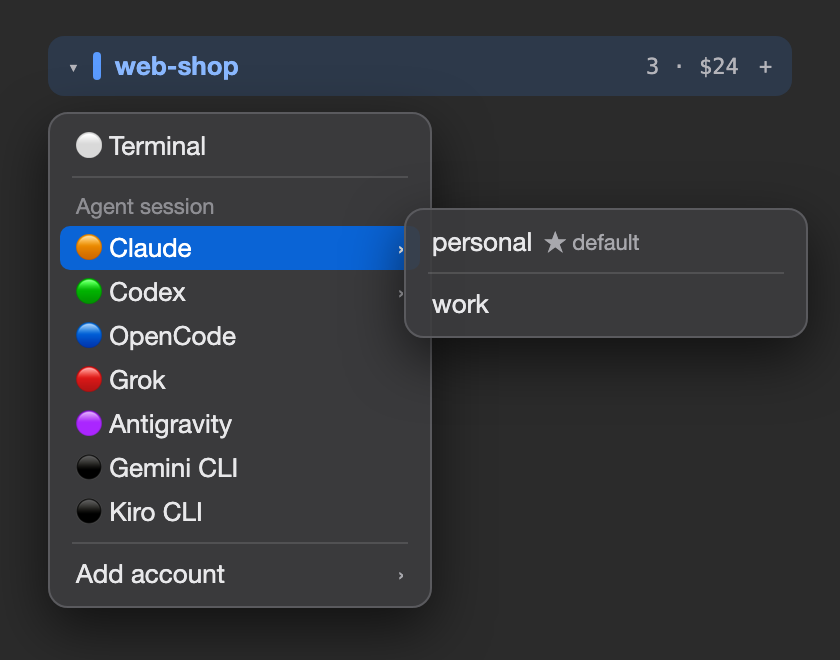
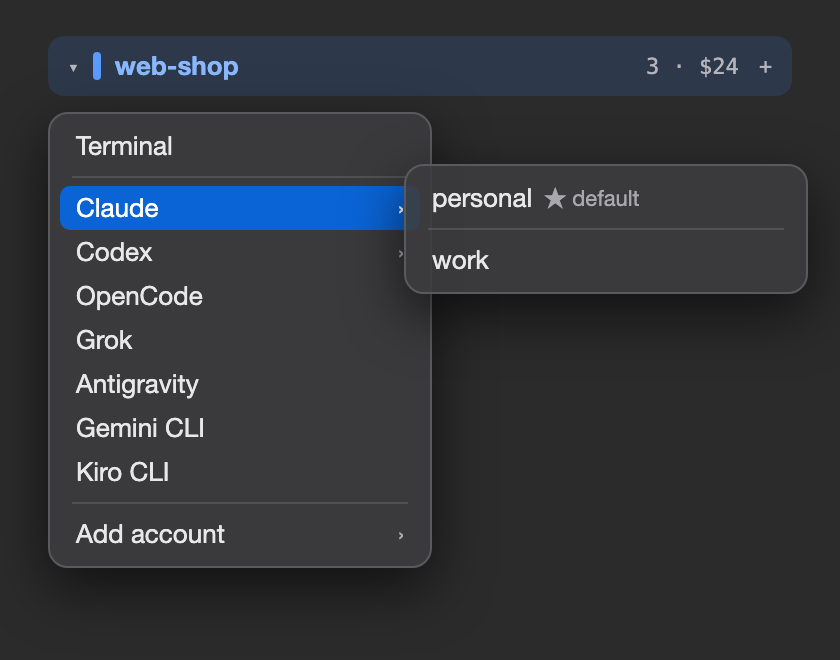
Shorter menus: no tool dots, no dead items, views in one submenu
Row menu: the name first, a PR item only when a PR exists, no item that
repeats a click. Header menu: plain tool names; fold-all stays beside the search.

Claude-Session: https://claude.ai/code/session_01HXnduJEMf4sVkPrvQkemg9

diff --git a/sidebars/agents.js b/sidebars/agents.js
@@ -665,7 +665,6 @@ const PLAIN = { agy: "agy" };
 const STARTS = [...LAUNCH, ...Object.keys(PLAIN)];
 // A system menu draws no icon beside a label and no text colour (both tried with cmux 0.65, 2026-11-15), so a
 // coloured emoji dot is the mark of a tool there.
-const DOT = { term: "\u26AA", claude: "\u{1F7E0}", codex: "\u{1F7E2}", opencode: "\u{1F535}", grok: "\u{1F534}", agy: "\u{1F7E3}" };
 // Other tools: "@tools: gemini=gemini=Gemini CLI;kiro=kiro-cli=Kiro CLI" (id=command=label), written by label-tabs.py
 // from its list and from ~/.config/cmux/agents-tools. This text reaches a shell, so every part is checked here again:
 // the command is one word (a-z, 0-9, "-"; no path, no argument) that the login shell finds by name.
@@ -1072,19 +1071,19 @@ function addAccount(wsId, tool) {
 const bandMenu = (entry) => {
   const items = entry().launch ?? [], ws = () => entry().wsId;
   const tools = [...new Set(items.map((x) => x.tool))];
-  // A tool that is not one of the five has its label in the item and a neutral dot.
-  const name = (t) => TOOLS[t] ?? items.find((x) => x.tool === t).name, dot = (t) => DOT[t] ?? "\u26AB";
+  // Plain names, no colour marks: a colour per tool is used nowhere else in the panel. A tool that is not one of
+  // the five has its label in the item.
+  const name = (t) => TOOLS[t] ?? items.find((x) => x.tool === t).name;
   const start = tools.map((t) => {
     const mine = items.filter((x) => x.tool === t);
-    if (mine.length < 2) return Button(dot(t) + "  " + name(t), () => launch(ws(), mine[0]));
+    if (mine.length < 2) return Button(name(t), () => launch(ws(), mine[0]));
     const first = mine.filter((x) => !x.acct), rest = mine.filter((x) => x.acct);
-    return Menu(dot(t) + "  " + name(t), [...first.map((x) => Button(x.label, () => launch(ws(), x))), ...(first.length && rest.length ? [Divider()] : []),
+    return Menu(name(t), [...first.map((x) => Button(x.label, () => launch(ws(), x))), ...(first.length && rest.length ? [Divider()] : []),
       ...rest.map((x) => Button(x.label, () => launch(ws(), x)))]);
   });
-  const adds = tools.filter((t) => LAUNCH.includes(t)).map((t) => Button(DOT[t] + "  " + TOOLS[t] + "…", () => addAccount(ws(), t)));
-  return [Button(DOT.term + "  Terminal", () => newTab(ws())), ...(start.length ? [Divider(), Text("Agent session"), ...start] : []),
-    ...(adds.length ? [Divider(), Menu("Add account", adds)] : []),
-    Divider(), Button("Collapse all groups", () => foldAll(true)), Button("Expand all groups", () => foldAll(false))];
+  const adds = tools.filter((t) => LAUNCH.includes(t)).map((t) => Button(TOOLS[t] + "…", () => addAccount(ws(), t)));
+  return [Button("Terminal", () => newTab(ws())), ...(start.length ? [Divider(), ...start] : []),
+    ...(adds.length ? [Divider(), Menu("Add account", adds)] : [])];
 };
 const selectWs = (entry) => () => cmux("workspace.select", { workspace_id: entry().wsId });
 // "+" opens a plain terminal tab in the workspace, the first item of the right-click menu. A Menu() as the mark was
@@ -1253,15 +1252,19 @@ function limitRow(entry) {
 function rowMenu(entry) {
   const cmd = commandsOf(entry().agent);
   const items = [
-    Button("Go to session", () => jump(entry())),
-    Button(() => (openInfo()[entry().rowId] ? "Hide details" : "Show details"), () => flip(openInfo, setOpenInfo, entry().rowId)),
+    // A plain click on the row goes to the session, so the menu has no item for it. The name comes first: it is
+    // what a reader passes to another session.
     Button(() => "Copy name" + (entry().sessName ? ": " + entry().sessName : ""), () => clipboard.write(entry().sessName || entry().tabTitle)),
     Button("Copy folder", () => clipboard.write(entry().folder)),
-    Button("Show in timeline", () => openViews("timeline", entry().sessName)),
-    Button("Show inside the sessions", () => openViews("inside")),
-    Button("Show the setup", () => openViews("setup")),
-    Button(() => (entry().prText ? "Copy PR " + entry().prText.split(" ")[0] : "No PR for this session"),
-      () => { if (entry().prText) clipboard.write(entry().prText.split(" ")[0]); }),
+    // No item when the session has no PR: the menu cannot grey an item out.
+    ...(entry().prText ? [Button(() => "Copy PR " + String(entry().prText).split(" ")[0], () => clipboard.write(String(entry().prText).split(" ")[0]))] : []),
+    Button(() => (openInfo()[entry().rowId] ? "Hide details" : "Show details"), () => flip(openInfo, setOpenInfo, entry().rowId)),
+    Divider(),
+    Menu("Show in views", [
+      Button("Timeline", () => openViews("timeline", entry().sessName)),
+      Button("Inside the sessions", () => openViews("inside")),
+      Button("Setup", () => openViews("setup")),
+    ]),
   ];
   if (cmd.compact || cmd.usage) items.push(Divider());
   for (const text of [cmd.compact, cmd.usage]) {

diff --git a/examples/start-menu.html b/examples/start-menu.html
@@ -24,21 +24,20 @@
   <div class="band"><span class="mono" style="font-size:9px;color:#b4b4ba">▾</span><i></i>web-shop<span class="r mono"><span>3 · $24</span><span style="color:#b4b4ba">+</span></span></div>
 
   <div class="menu" style="left:24px;top:56px;width:180px">
-    <div class="it">⚪  Terminal</div>
+    <div class="it">Terminal</div>
     <div class="sep"></div>
-    <div class="hd">Agent session</div>
-    <div class="it on">🟠  Claude<span class="ch">›</span></div>
-    <div class="it">🟢  Codex<span class="ch">›</span></div>
-    <div class="it">🔵  OpenCode</div>
-    <div class="it">🔴  Grok</div>
-    <div class="it">🟣  Antigravity</div>
-    <div class="it">⚫  Gemini CLI</div>
-    <div class="it">⚫  Kiro CLI</div>
+    <div class="it on">Claude<span class="ch">›</span></div>
+    <div class="it">Codex<span class="ch">›</span></div>
+    <div class="it">OpenCode</div>
+    <div class="it">Grok</div>
+    <div class="it">Antigravity</div>
+    <div class="it">Gemini CLI</div>
+    <div class="it">Kiro CLI</div>
     <div class="sep"></div>
     <div class="it">Add account<span class="ch">›</span></div>
   </div>
 
-  <div class="menu" style="left:202px;top:104px;width:190px">
+  <div class="menu" style="left:202px;top:82px;width:190px">
     <div class="it">personal  <span class="star">★ default</span></div>
     <div class="sep"></div>
     <div class="it">work</div>

diff --git a/README.md b/README.md
@@ -32,18 +32,18 @@ All pictures in this file are renders with sample names and sample figures.
 | `✕ Reset` | Shows when the view is not the default. Back to the default view: no chip, no account, all workspaces, no ended rows, no `By state` grouping. The search text stays |
 | Subagents | `▸ 2 sub` on a row opens the subagent rows. The count comes from cmux, or from the Claude Code records when cmux reports none |
 | Details | `›` on a row opens state, tool, folder, branch, ports, first and last request |
-| Right-click menu | Go to session, copy name, copy folder, copy PR number, fast commands |
+| Right-click menu | On a session row: copy name, copy folder, copy the PR number (only when the session has a PR), show details, `Show in views` (Timeline, Inside the sessions, Setup), fast commands. A plain click on the row goes to the session, so the menu has no item for that |
 | `views ↗` | A page of pictures in a cmux browser tab, with a switch at the top: Hive, Timeline, Cost, Limits, Queue, Context, Inside, Rhythm, Setup (see "The views page"). The Hive view is a graph: workspace → session → subagent. It updates every 15 seconds. The open tab has a blue box. A click on a session goes to its tab, and the page follows you to another workspace |
 | Next waiting | `next-waiting.sh` goes to the Claude Code session that has waited for you the longest |
 | `Limits` | Next to `Sessions` in the first row: the rate limits of each agent tool on this Mac, per window (5 hours, week), with the reset time and the age of the figure. Grouped `by account`; `by tool` groups them per tool (see "The Limits view"). The panel remembers the choice |
 | Search | Type in `Search agents`: rows stay when the text is in the tab title (with the session name), the tool, the account, the workspace name or the folder. Capital letters do not matter. A search text looks in every workspace, also with `Here` on. A chip narrows the result further. While `Limits` is on, a search text shows the sessions again |
-| Fold all groups | The mark at the right of the search field: `▾▾` folds every listed group, `▸▸` opens them. With some groups open it folds. The same two actions are in the right-click menu of a workspace header (`Collapse all groups`, `Expand all groups`). A search looks inside folded groups; the folds come back when the search text is cleared |
+| Fold all groups | The mark at the right of the search field: `▾▾` folds every listed group, `▸▸` opens them. With some groups open it folds. A search looks inside folded groups; the folds come back when the search text is cleared |
 | Account chips | With sessions on two accounts or more, one chip per account under the filter chips, with its row count. A click shows only that account; a second click, or `✕ Reset`, shows all |
 | Account colour | Each account name has one fixed colour, the same on the row tag, on the hive page and at the start of the session's status line. There are six colours, so two names can share one |
 | Wrong-account mark | `≠ work` in orange on a row: the folder rules name `work` for that folder, and the session runs on another account. Needs `rule` lines |
 | Limit warning | One cmux notification when a limit window of any account passes 80% |
 | Next step | If the last reply of a Claude Code session ends with a line `Next: ...`, the row details show it. `→ you` in blue on the row when that line starts with `you` or `owner` |
-| New tab or new session | Click a workspace header's `+` for a plain terminal tab. Right-click the header for the start menu (see "The start menu"): `Terminal` first, then a grey `Agent session` header, then one item per tool found on your Mac, each with a coloured dot. A tool with 2 or more accounts is a submenu (`Claude` → `personal ★ default`, `work`), with the tool's normal folder first and marked `★ default`. A tool with one account is one item. `Add account` is a submenu: `Claude…` asks for a name in a new tab and makes the account folder. The list comes from your installed tools and your accounts file, so it has no fixed names |
+| New tab or new session | Click a workspace header's `+` for a plain terminal tab. Right-click the header for the start menu (see "The start menu"): `Terminal` first, then one item per tool found on your Mac. A tool with 2 or more accounts is a submenu (`Claude` → `personal ★ default`, `work`), with the tool's normal folder first and marked `★ default`. A tool with one account is one item. `Add account` is a submenu: `Claude…` asks for a name in a new tab and makes the account folder. The list comes from your installed tools and your accounts file, so it has no fixed names |
 | Asked or finished | A session that waits for your answer has an orange outline, shows `asked` and why it waits in orange on its second line, and also shows at the top of the panel. A session that ended its turn while you looked elsewhere has a purple fill and shows `finished · not seen`. The `✓` chip filters the finished ones |
 | Last prompt | The start of your last request to a Claude Code session, in the row details and in the search |
 | State from the screen | Codex, OpenCode, Grok and Antigravity tabs publish no state. The row says `working · from screen` or `asked · from screen`, read from the last 30 lines of the tab |
@@ -128,14 +128,13 @@ A row shows at most 2 pills. Their order of priority is: `≠`, a PR that needs 
 
 Right-click a workspace header. The menu has these parts, from top to bottom:
 
-1. `⚪ Terminal`: a plain terminal tab.
-2. A grey header, `Agent session`.
-3. One item per tool found on this Mac, each with a coloured dot. A tool with 2 or more accounts is a submenu: the tool's normal folder first, marked `★ default`, then the other accounts. A tool with one account is one item.
-4. `Add account`, a submenu with one item per tool that has accounts (`Claude…`). It opens a tab that asks for a name and runs `agents-account-add.sh`.
+1. `Terminal`: a plain terminal tab.
+2. One item per tool found on this Mac. A tool with 2 or more accounts is a submenu: the tool's normal folder first, marked `★ default`, then the other accounts. A tool with one account is one item.
+3. `Add account`, a submenu with one item per tool that has accounts (`Claude…`). It opens a tab that asks for a name and runs `agents-account-add.sh`.
 
-<img src="examples/start-menu.png" alt="Drawing of the start menu on a workspace header: Terminal, the grey header Agent session, tools with coloured dots, the Claude submenu open with personal (star default) and work, two extra tools with neutral dots, and Add account" width="420">
+<img src="examples/start-menu.png" alt="Drawing of the start menu on a workspace header: Terminal, the tools by name, the Claude submenu open with personal (star default) and work, two extra tools, and Add account" width="420">
 
-A drawing with sample names. The menu is a system menu: it cannot draw a logo or a text colour, so a coloured dot marks each tool. The tool names are text only.
+A drawing with sample names. The menu is a system menu: it cannot draw a logo or a text colour. The items are plain names with no colour mark, because a colour per tool is used nowhere else in the panel.
 
 Claude Code, Codex, OpenCode and Grok start through `agent-run.sh`, with the account you pick. Antigravity (`agy`) and the extra tools below have one account and start by their own command.
 
@@ -157,7 +156,7 @@ The watcher knows 11 more terminal agents. Each is listed only when two things a
 | Copilot CLI | `copilot` | `~/.copilot` |
 | Cursor Agent | `cursor-agent` | `~/.cursor` |
 
-These items get a neutral dot (⚫), one account, and start by their command word. They have no `Add account` item and no `Limits` line.
+These items get one account and start by their command word. They have no `Add account` item and no `Limits` line.
 
 To add a tool of your own, write one line in `~/.config/cmux/agents-tools`:
 
@@ -222,7 +221,7 @@ The pictures are renders of `scripts/hive.html` with sample data.
 - The history covers Claude Code sessions. Other tools publish no session state.
 - A gap in a lane is a time when the watcher did not run (the Mac slept, or the watcher was stopped).
 - The forecast is a straight line from the last readings. It knows nothing about your plans.
-- From the panel: right-click a row → `Show in timeline`; right-click a limit line → `Show the limit forecast`; right-click a cost line → `Show the cost map`; right-click a row → `Show inside the sessions` or `Show the setup`.
+- From the panel: right-click a row → `Show in views` → `Timeline`; right-click a limit line → `Show the limit forecast`; right-click a cost line → `Show the cost map`; right-click a row → `Show in views` → `Inside the sessions` or `Setup`.
 
 ### The Limits view in the panel
 
